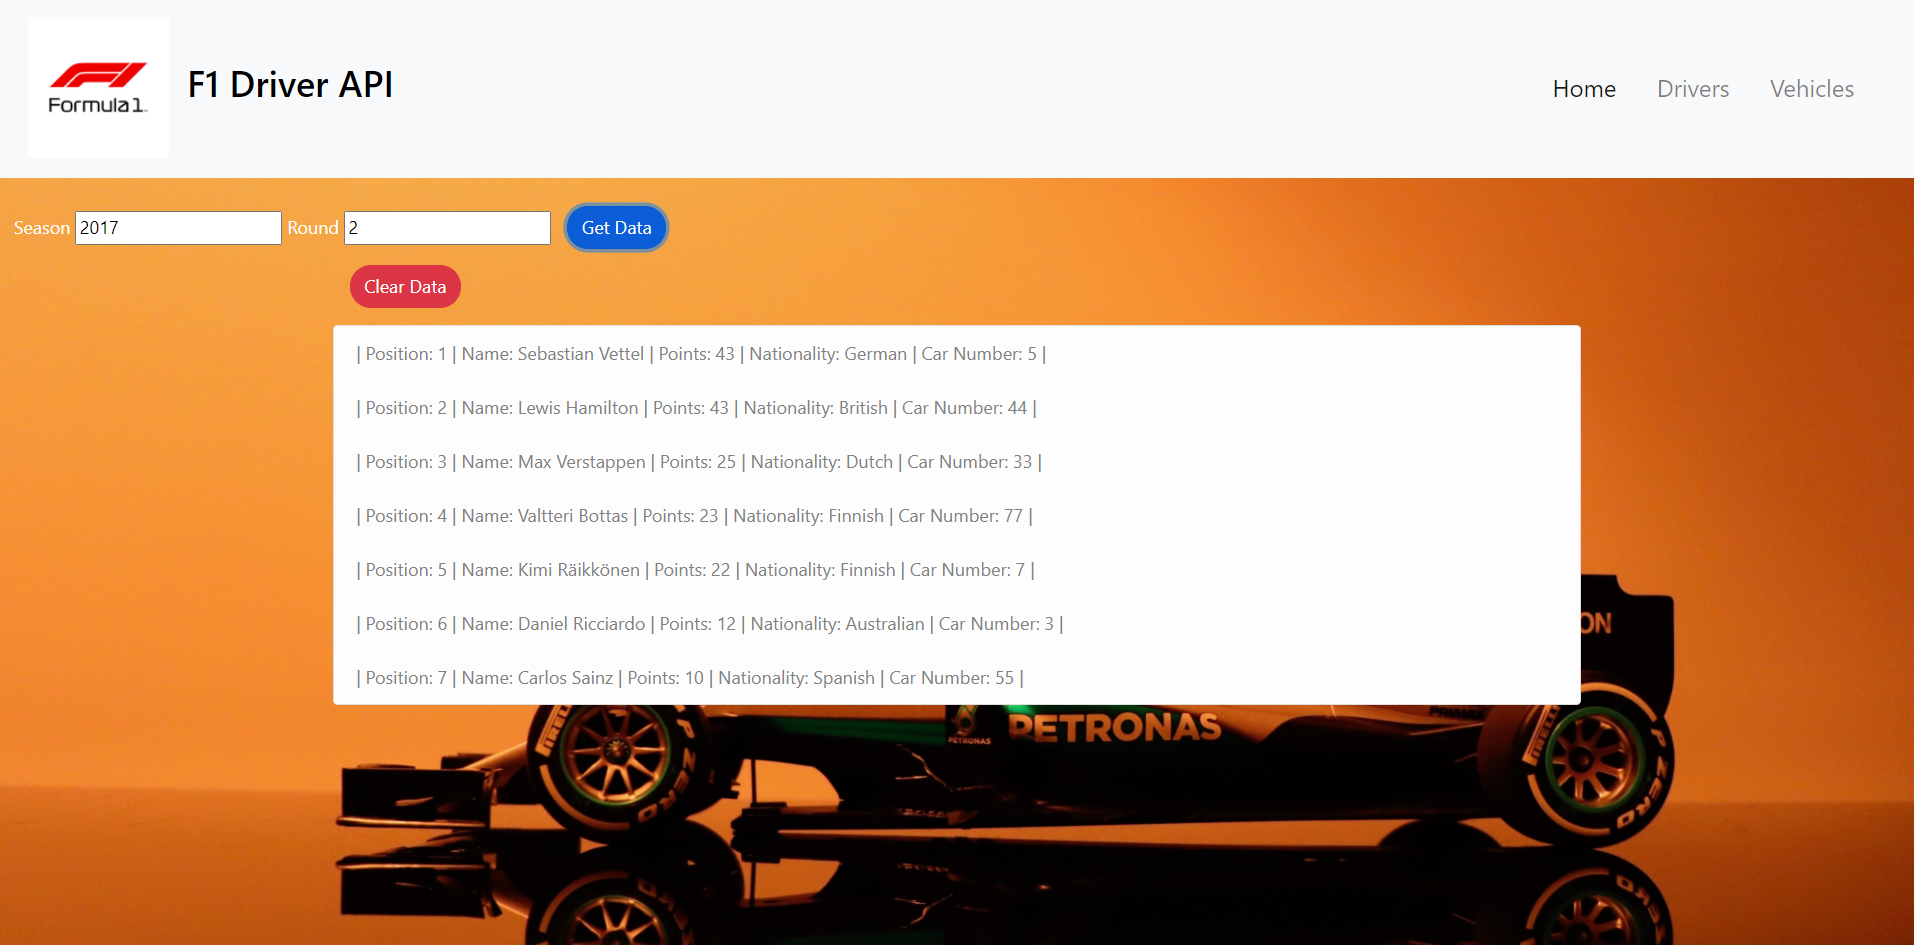
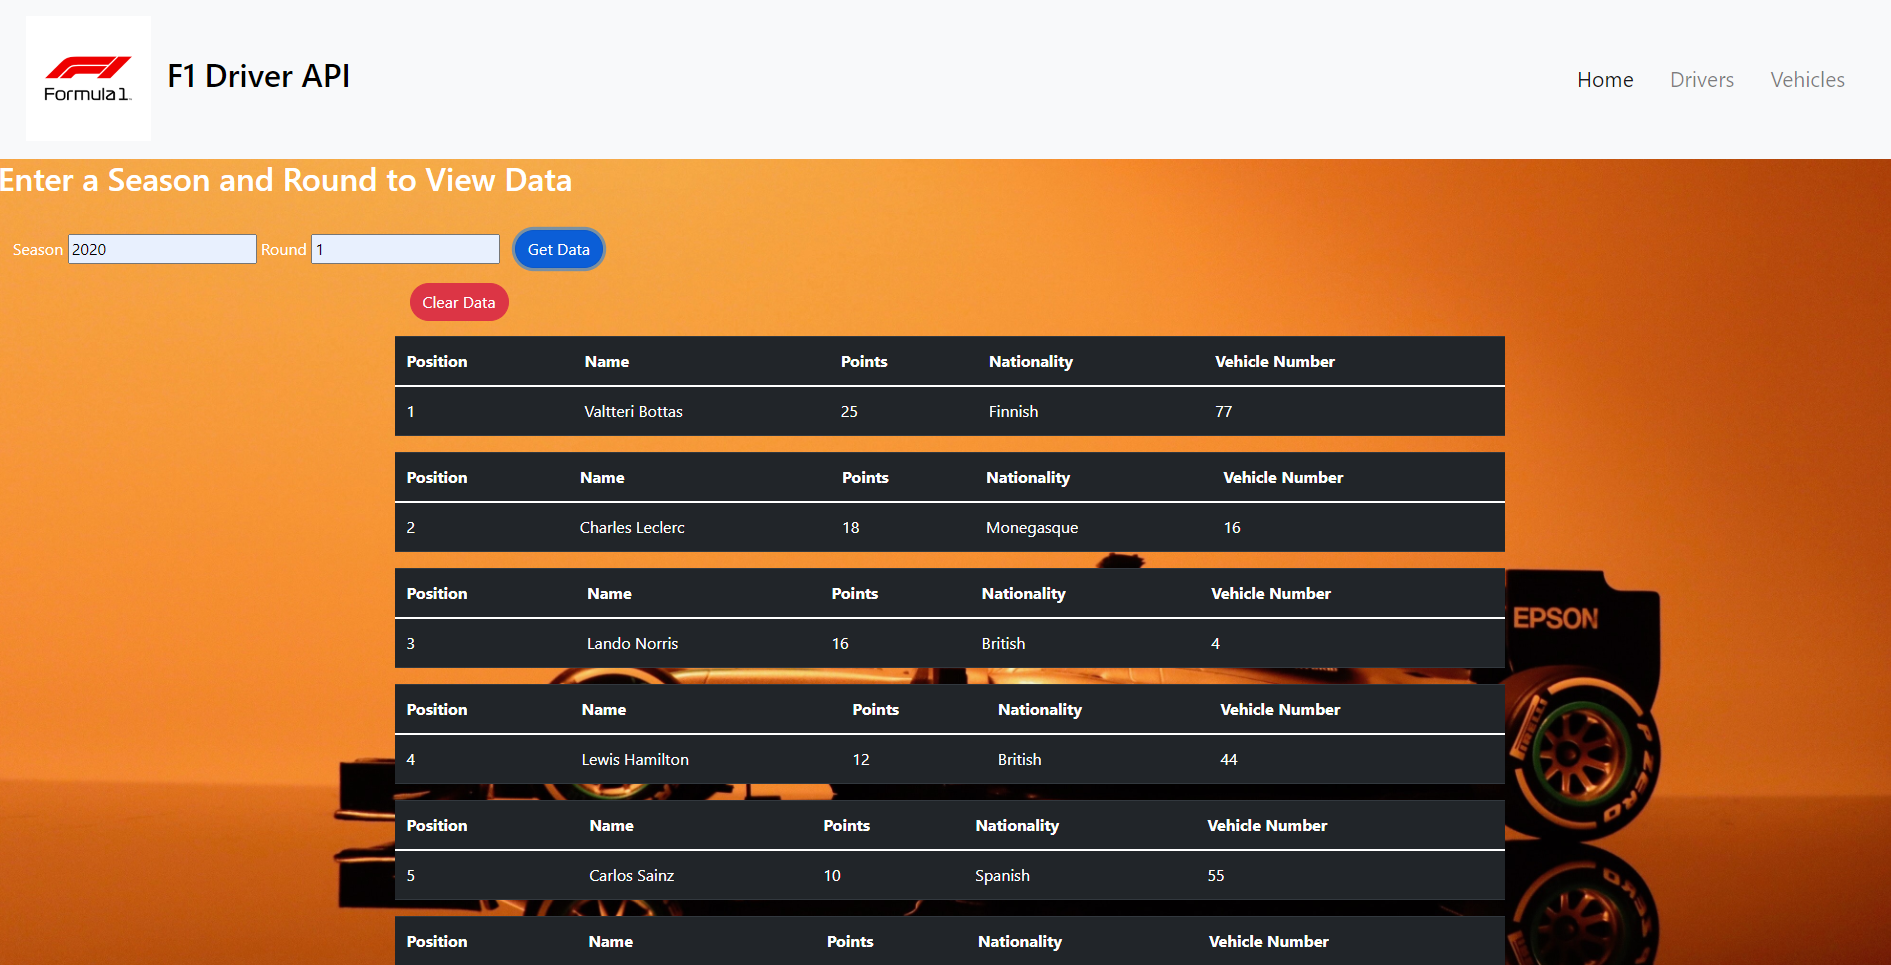
Formatting

diff --git a/js/main.js b/js/main.js
@@ -29,8 +29,28 @@ const DOM_Elements = {
 // Creating the Table on the HTML Doc
 
 const create_list = ( position, name, points, nationality, car_number ) => {
-    const html = `<a href ="#" class="list-group-item list-group-item-action list-group-item-light" > | Position: ${position} | Name: ${name} | Points: ${points} | Nationality: ${nationality} | Car Number: ${car_number} |</a>`;
-    document.querySelector(DOM_Elements.racer_list).insertAdjacentHTML('beforeend', html)
+    const html2 = 
+    `<table class="table table-dark">
+        <thead>
+        <tr>
+            <th scope="col">Position</th>
+            <th scope="col">Name</th>
+            <th scope="col">Points</th>
+            <th scope="col">Nationality</th>
+            <th scope="col">Vehicle Number</th>
+        </tr>
+        </thead>
+        <tbody>
+        <tr>
+            <td>${position}</td>
+            <td>${name}</td>
+            <td>${points}</td>
+            <td>${nationality}</td>
+            <td>${car_number}</td>
+        </tr>
+        </tbody>
+    </table>`
+    document.querySelector(DOM_Elements.racer_list).insertAdjacentHTML('beforeend', html2)
     
 }
 

diff --git a/index.html b/index.html
@@ -64,7 +64,6 @@
             <div class="col-12 col-md-12">
                 <button class="btn btn-danger rounded-pill" onclick="clear_data()" id="clear">Clear Data</button>
                 <section class="list-group racer-list">
-
                 </section>
             </div>
         </div>
